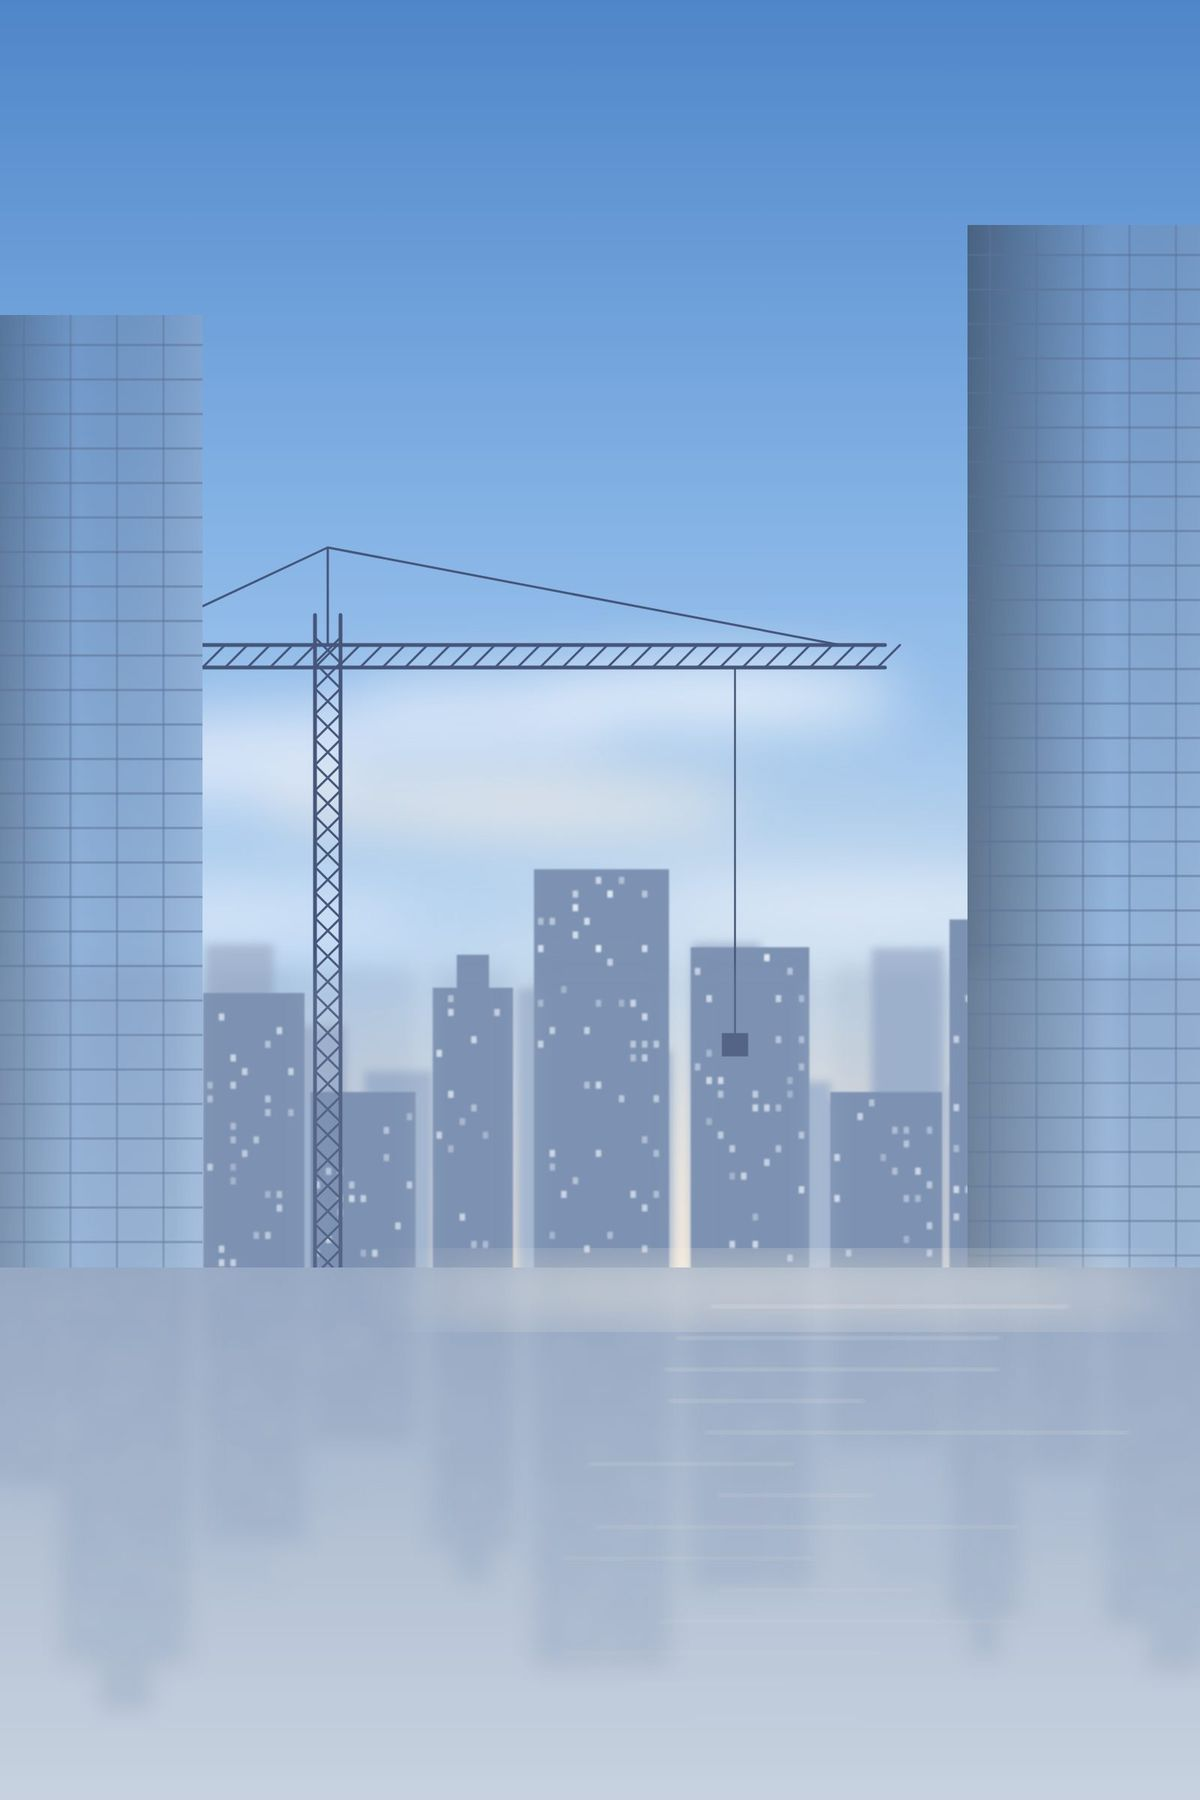
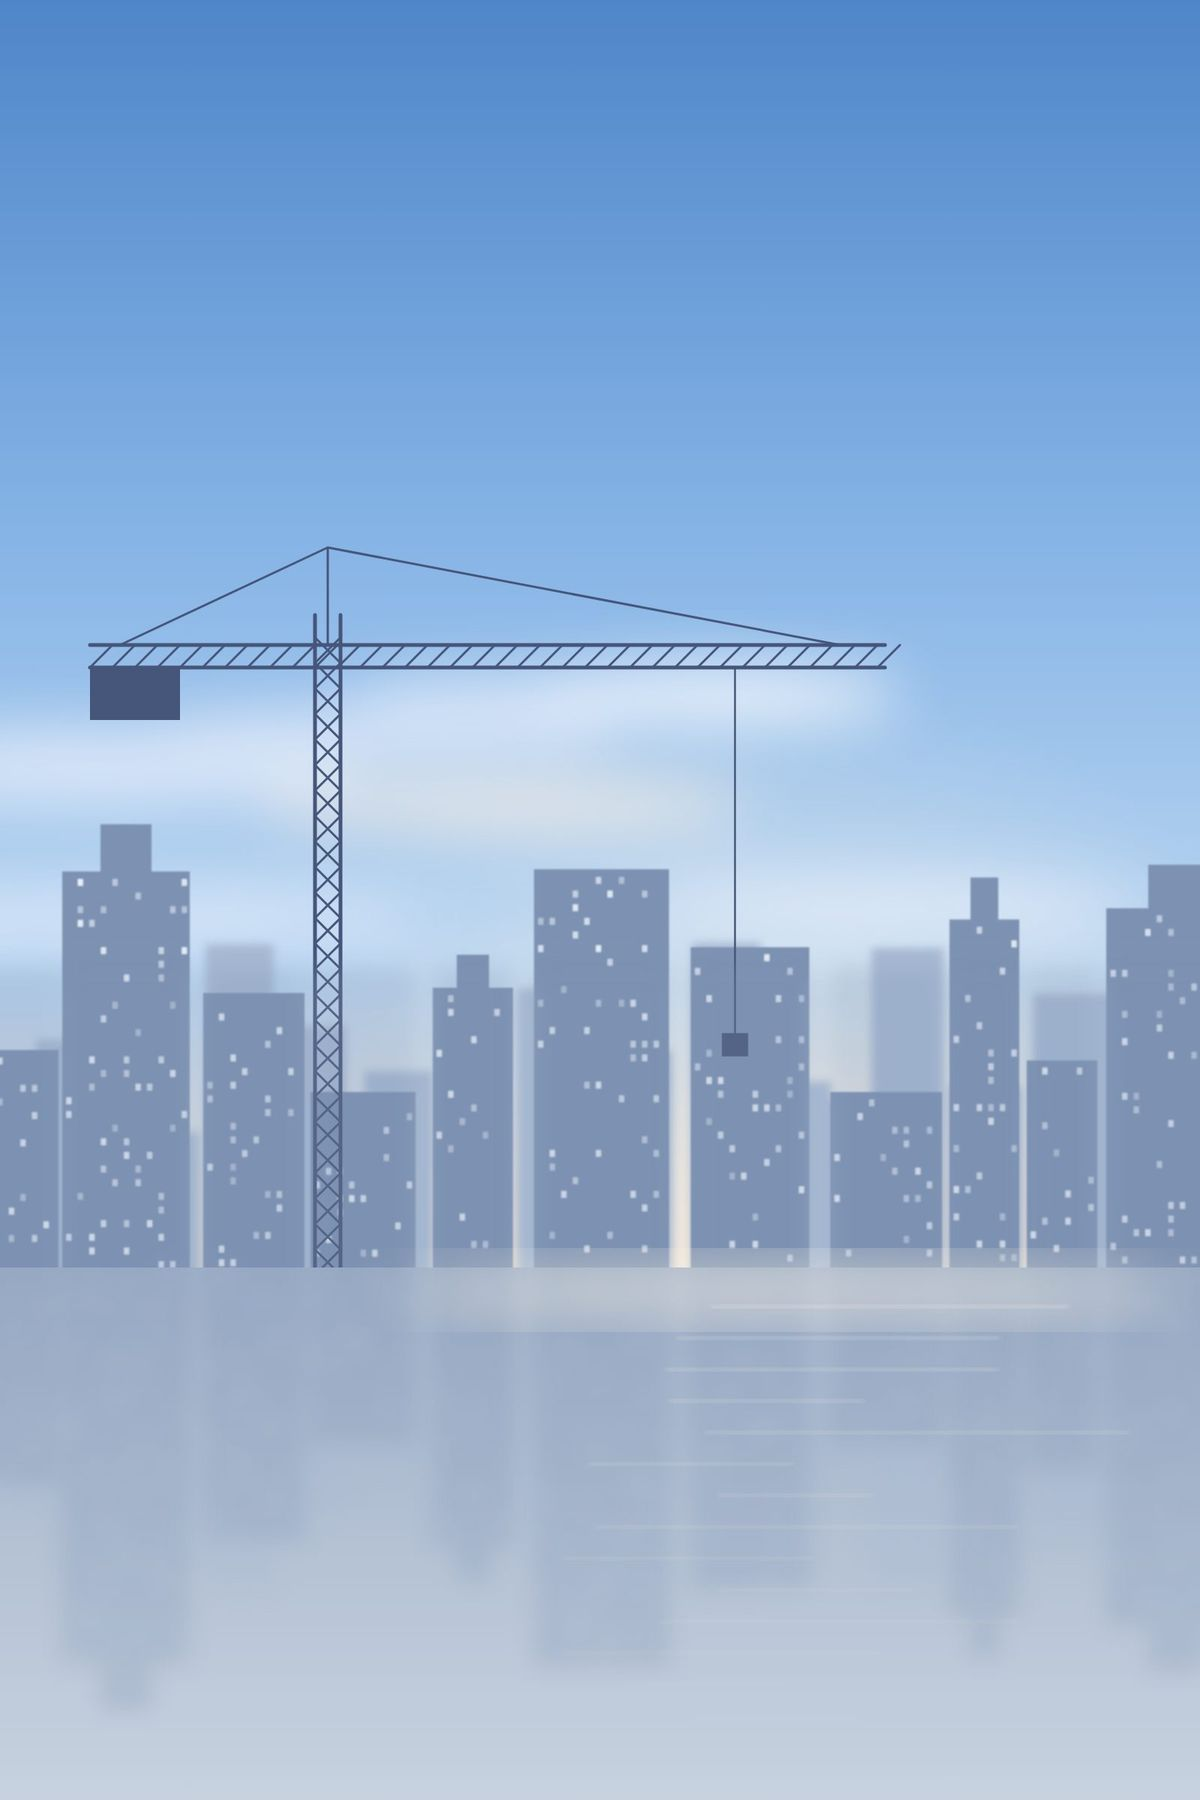
Hintergrund ohne harte Kante oben: Himmel geht weich in die Statusleiste über
Claude-Session: https://claude.ai/code/session_01Q9G8FrFgqhwxGyHKjbqCRD

Changed region(s): [[0.8017, 0.1244, 1.0, 0.7156], [0.0, 0.1556, 0.185, 0.7156]]

diff --git a/index.html b/index.html
@@ -321,12 +321,12 @@ html.dark #frame{filter:invert(.92) hue-rotate(180deg)}html.dark #frame,html.dar
 /* ================= Glas-Design (Liquid Glass) =================
    Echter Hell- und Dunkelmodus über Farb-Variablen, Foto im Hintergrund, Glasflächen darüber. */
 :root,html[data-th="light"]{color-scheme:light;
-  --ink:#0f1422;--muted:#4b5468;--line:rgba(15,20,34,.1);--bg:#dfe8f4;--bg2:rgba(15,20,34,.05);
+  --ink:#0f1422;--muted:#4b5468;--line:rgba(15,20,34,.1);--bg:#5087ca;--bg2:rgba(15,20,34,.05);
   --glass:rgba(255,255,255,.52);--glass-hi:rgba(255,255,255,.78);--glass-strong:rgba(248,250,255,.88);--field:rgba(255,255,255,.75);
   --shadow:0 12px 32px -16px rgba(20,30,60,.35);--accent:#0066d6;--hello:#eef2f8;--bgimg:url(bg-day.jpg);
   --veil:linear-gradient(180deg,rgba(255,255,255,.18),rgba(255,255,255,.05) 40%,rgba(230,236,246,.35));}
 html[data-th="dark"]{color-scheme:dark;
-  --ink:#f4f6fb;--muted:rgba(228,233,247,.7);--line:rgba(255,255,255,.12);--bg:#0b0d1c;--bg2:rgba(255,255,255,.07);
+  --ink:#f4f6fb;--muted:rgba(228,233,247,.7);--line:rgba(255,255,255,.12);--bg:#070c22;--bg2:rgba(255,255,255,.07);
   --glass:rgba(20,22,40,.44);--glass-hi:rgba(255,255,255,.16);--glass-strong:rgba(24,26,44,.86);--field:rgba(255,255,255,.09);
   --shadow:0 14px 36px -16px rgba(0,0,0,.7);--accent:#4da3ff;--hello:#0b0d1c;--bgimg:url(bg-dusk.jpg);
   --veil:linear-gradient(180deg,rgba(6,8,22,.35),rgba(6,8,22,.1) 35%,rgba(6,8,22,.55));}
@@ -335,7 +335,8 @@ html[data-th="dark"]{color-scheme:dark;
 @media (prefers-reduced-transparency:reduce){:root,html[data-th="light"]{--glass:rgba(246,248,252,.95)}html[data-th="dark"]{--glass:rgba(22,24,40,.95)}}
 html{background:var(--bg);color:var(--ink)}body{background:transparent;color:var(--ink)}
 body{-webkit-font-smoothing:antialiased;letter-spacing:-.005em}
-#bgimg{position:fixed;inset:0;z-index:-1;background:var(--veil),var(--bgimg) center 62%/cover no-repeat,var(--bg);transition:opacity .4s}
+#bgimg{position:fixed;inset:0;z-index:-1;background:linear-gradient(180deg,var(--bg) 0,var(--bg) env(safe-area-inset-top,0px),transparent calc(env(safe-area-inset-top,0px) + 120px)),var(--veil),var(--bgimg) center 62%/cover no-repeat,var(--bg)}
+html[data-th="light"] #frame,html[data-th="light"] #frame iframe{background:#fff}
 .wrap{max-width:820px;padding-top:14px;padding-bottom:calc(118px + env(safe-area-inset-bottom,0px))}
 
 /* Glasfläche */
@@ -465,7 +466,7 @@ html[data-th="dark"] .lg-f input:focus{box-shadow:0 0 0 3px rgba(77,163,255,.35)
 html[data-th="dark"] .bb-f{border-top-color:var(--line)}
 
 /* Anmeldung, Begrüßung, Hinweise */
-#gate,#login{background:var(--veil),var(--bgimg) center 62%/cover no-repeat,var(--bg)}
+#gate,#login{background:linear-gradient(180deg,var(--bg) 0,transparent 120px),var(--veil),var(--bgimg) center 62%/cover no-repeat,var(--bg)}
 .lg-card,#wait .card{background:var(--glass-strong);-webkit-backdrop-filter:blur(30px) saturate(170%);backdrop-filter:blur(30px) saturate(170%);border:1px solid var(--glass-hi);color:var(--ink);border-radius:30px}
 #hello{background:var(--hello)}
 #frame{background:var(--bg)}
@@ -847,7 +848,7 @@ window.addEventListener("message",e=>{if(e.data&&e.data.lernapp==="home")push()}
 /* Einstellungen: Darstellung und Zurücksetzen (immer mit Nachfrage, alles komplett mit doppelter Nachfrage) */
 const MQ_DARK=matchMedia("(prefers-color-scheme: dark)");
 function applyTheme(){const t=store.get("app-theme","auto"),d=t==="dark"||(t==="auto"&&MQ_DARK.matches);document.documentElement.classList.toggle("dark",d);document.documentElement.dataset.th=d?"dark":"light";
-  const mc=document.querySelector('meta[name="theme-color"]');if(mc)mc.content=d?"#0b0d1c":"#dfe8f4";
+  const mc=document.querySelector('meta[name="theme-color"]');if(mc)mc.content=d?"#070c22":"#5087ca";
   document.querySelectorAll("[data-theme-set]").forEach(b=>b.setAttribute("aria-pressed",b.dataset.themeSet===t))}
 document.querySelectorAll("[data-theme-set]").forEach(b=>b.onclick=()=>{store.set("app-theme",b.dataset.themeSet);applyTheme();profSave();push()});
 try{MQ_DARK.addEventListener("change",applyTheme)}catch(e){}
